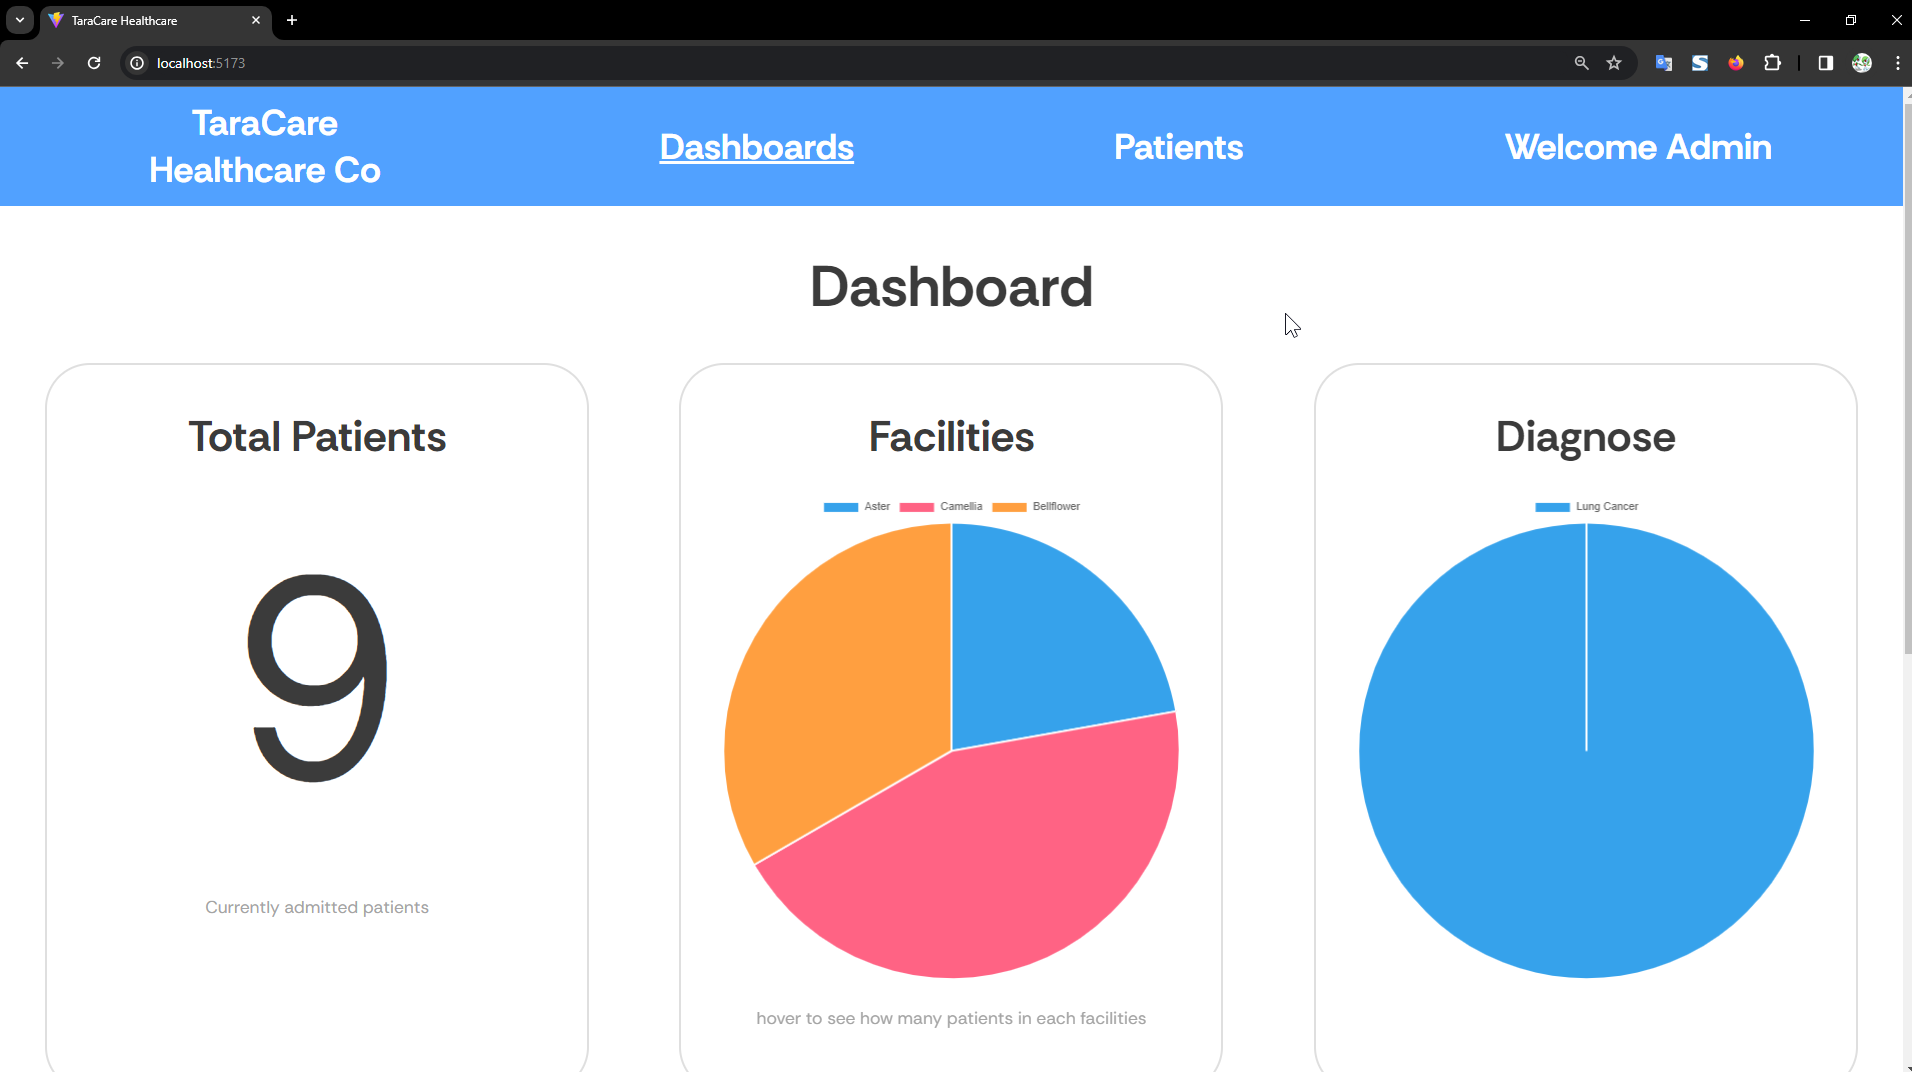
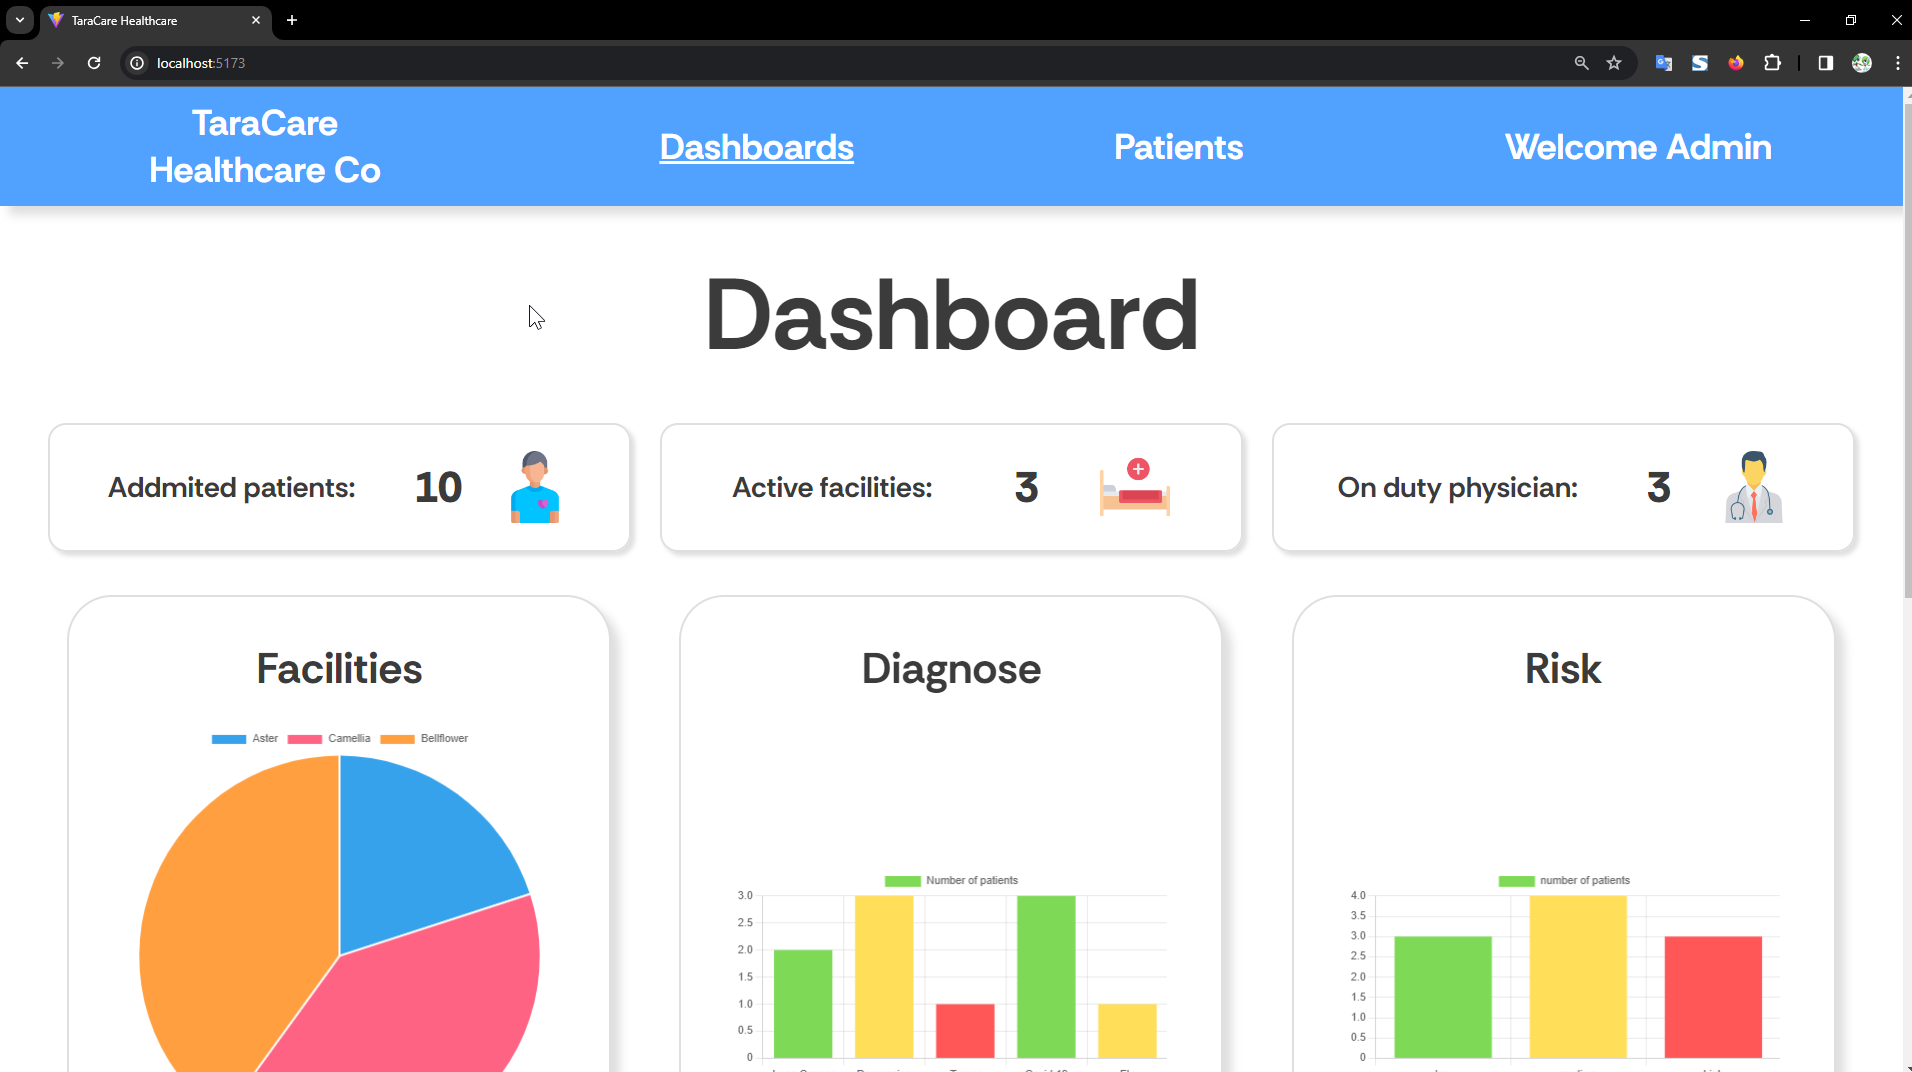
update readme with updated dashboard

diff --git a/README.md b/README.md
@@ -25,7 +25,7 @@ node js
 ### Dashboard
 ![](./img/1.png)
 
->A full feature dashboard showing charts and data
+>A full feature dashboard showing numbers of patients, facility, physician, dan charts to show available data
 
 ### List
 ![](./img/2.png)
